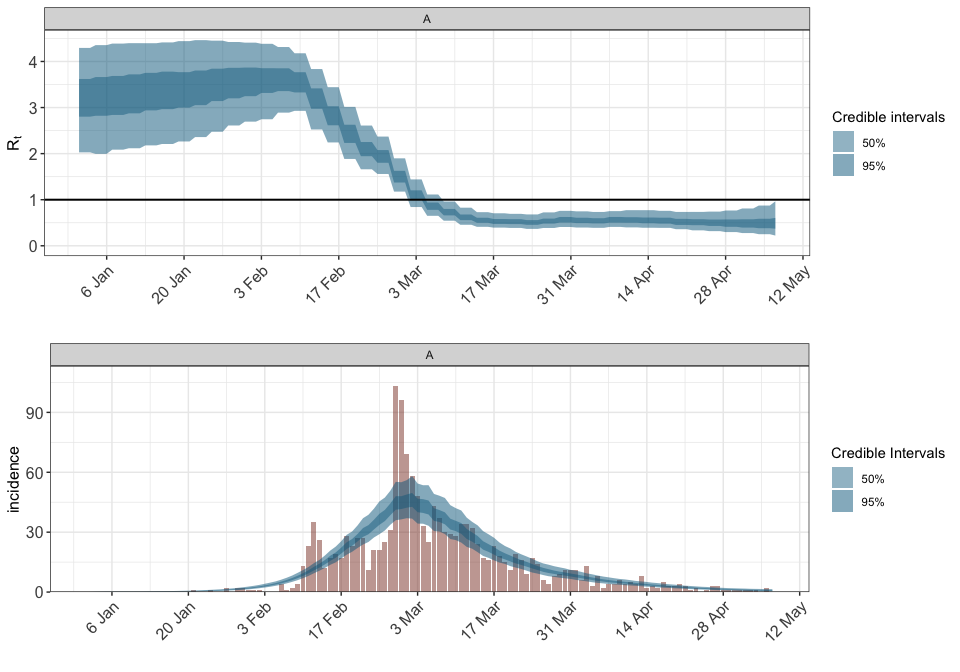
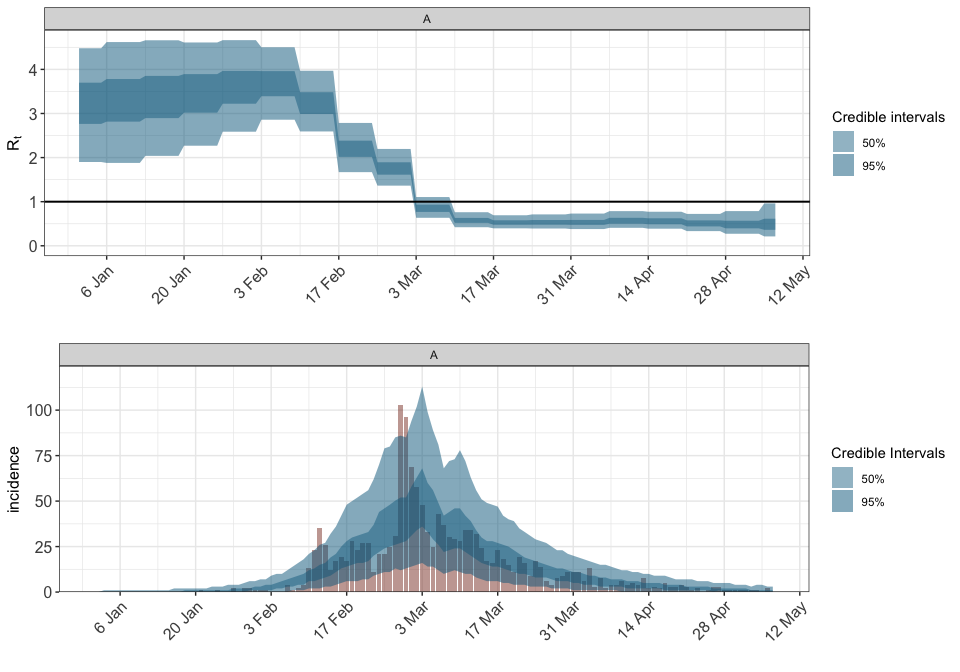
Modified vignettes to deal with warnings

diff --git a/vignettes/ResolvingProblems.md b/vignettes/ResolvingProblems.md
@@ -47,8 +47,10 @@ sars$incidence <- c(rep(NA,20),cumsum(sars$incidence)) ## pad before initialisat
 sars$sarsdate <- as.Date("2003-01-01")+seq(0,along.with=sars$incidence)
 obs <- !is.na(sars$incidence)
 
-args <- list(formula=Rt(country,date)~rw(date,3),
-     data=data.frame(country="A",date=sars$sarsdate),
+args <- list(formula=Rt(country,date)~ rw(time=week,prior_scale=0.1),
+     data=data.frame(country="A",
+                     date=sars$sarsdate,
+                     week = format(sars$sarsdate, "%V")),
              obs=list(
                  incidence=list(
                      odata=data.frame(country="A",
@@ -76,7 +78,7 @@ args$sampling_args <- list(iter=100,control=list(adapt_delta=0.95,max_treedepth=
 fitpre <- do.call("epim",args)
 ```
 
-    ## Warning: The largest R-hat is 1.71, indicating chains have not mixed.
+    ## Warning: The largest R-hat is 1.33, indicating chains have not mixed.
     ## Running the chains for more iterations may help. See
     ## http://mc-stan.org/misc/warnings.html#r-hat
 
@@ -135,6 +137,7 @@ initf <- function(){
     res$noise<- NULL
     res
 }
+args$debug <- F
 args$sampling_args <- list(iter=1000,control=list(adapt_delta=0.95,max_treedepth=15),seed=713,init=initf)
 ```
 
@@ -214,8 +217,8 @@ respectively. Now we simulate daily death counts under this model, which
 will be used in place of the true death data.
 
 ``` r
-# use mean data from prior run
-obs <- posterior_obs(fm, type="deaths")$France
+# use posterior data from prior run
+obs <- posterior_predict(fm, type="deaths")$France
 dates <- obs[,1]
 obs <- as.integer(rowMeans(obs[,-1]))
 
@@ -233,57 +236,22 @@ the initial reproduction number and effects.
 ``` r
 # fit the model with uninformative priors
 args$prior_PD <- FALSE
-args$prior_intercept <- rstanarm::normal()
-args$prior <- rstanarm::normal()
+args$prior_intercept <- rstanarm::normal(scale=10)
+args$prior <- rstanarm::normal(scale=10)
 system.time(fm2 <- do.call("epim", args))
 ```
 
-    ## $prior
-    ## $prior$dist
-    ## [1] "normal"
-    ## 
-    ## $prior$location
-    ## [1] 0 0
-    ## 
-    ## $prior$shape
-    ## [1] 0 0
-    ## 
-    ## $prior$scale
-    ## [1] 2.5 2.5
-    ## 
-    ## $prior$shift
-    ## [1] 0 0
-    ## 
-    ## $prior$adjusted_scale
-    ## NULL
-    ## 
-    ## $prior$df
-    ## NULL
-    ## 
-    ## 
-    ## $prior_intercept
-    ## $prior_intercept$dist
-    ## [1] "normal"
-    ## 
-    ## $prior_intercept$location
-    ## [1] 0
-    ## 
-    ## $prior_intercept$scale
-    ## [1] 10
-    ## 
-    ## $prior_intercept$adjusted_scale
-    ## NULL
-    ## 
-    ## $prior_intercept$df
-    ## NULL
-
-    ## Warning: There were 530 transitions after warmup that exceeded the maximum treedepth. Increase max_treedepth above 10. See
+    ## Warning: There were 1743 transitions after warmup that exceeded the maximum treedepth. Increase max_treedepth above 10. See
     ## http://mc-stan.org/misc/warnings.html#maximum-treedepth-exceeded
 
     ## Warning: Examine the pairs() plot to diagnose sampling problems
 
-    ##    user  system elapsed 
-    ## 906.082   4.690 269.255
+    ## Warning: Bulk Effective Samples Size (ESS) is too low, indicating posterior means and medians may be unreliable.
+    ## Running the chains for more iterations may help. See
+    ## http://mc-stan.org/misc/warnings.html#bulk-ess
+
+    ##     user   system  elapsed 
+    ## 1350.824    4.804  407.395
 
 Notice the warnings over exceeding the maximum-tree depath and the long
 run time. The reason for this will become clear soon. But first we
@@ -292,12 +260,13 @@ initial reproduction number.
 
 ``` r
 # more informative prior intercept
-args$prior_intercept <- rstanarm::normal(scale=0.2)
+args$prior_intercept <- rstanarm::normal(scale=0.5)
+args$prior <- rstanarm::normal(scale=0.5)
 system.time(fm3 <- do.call("epim", args))
 ```
 
     ##    user  system elapsed 
-    ## 214.190   2.253  82.440
+    ## 244.460   1.956  90.479
 
 This seems to more computationally stable. As shown below, the problem
 is caused by posterior correlation between the initial reproduction rate
@@ -344,17 +313,17 @@ print(fm2, digits=2)
     ## -----
     ## coefficients:
     ##                      Median MAD_SD
-    ## (Intercept)          -1.76   1.24 
-    ## schools_universities  2.26   1.28 
-    ## lockdown              1.50   0.14 
+    ## (Intercept)          -5.01   3.98 
+    ## schools_universities  5.53   3.98 
+    ## lockdown              1.50   0.16 
     ## 
     ## Other model parameters:
     ## -----
     ##                      Median MAD_SD
-    ## seeds[France]         4.32   2.59 
-    ## tau                  13.52  12.69 
-    ## phi                  21.36   3.32 
-    ## noise[France,deaths]  1.00   0.10
+    ## seeds[France]         2.65   0.76 
+    ## tau                  11.59  11.72 
+    ## phi[deaths]          19.16   3.22 
+    ## noise[France,deaths]  0.99   0.10
 
 ``` r
 print(fm3, digits=2)
@@ -365,14 +334,14 @@ print(fm3, digits=2)
     ## -----
     ## coefficients:
     ##                      Median MAD_SD
-    ## (Intercept)          0.02   0.13  
-    ## schools_universities 0.53   0.15  
-    ## lockdown             1.40   0.11  
+    ## (Intercept)          -0.22   0.26 
+    ## schools_universities  0.66   0.31 
+    ## lockdown              1.57   0.15 
     ## 
     ## Other model parameters:
     ## -----
     ##                      Median MAD_SD
-    ## seeds[France]        36.18  10.26 
-    ## tau                  34.68  22.11 
-    ## phi                  21.01   3.40 
-    ## noise[France,deaths]  1.01   0.10
+    ## seeds[France]        21.00   8.46 
+    ## tau                  26.81  20.20 
+    ## phi[deaths]          19.23   3.01 
+    ## noise[France,deaths]  1.00   0.10
